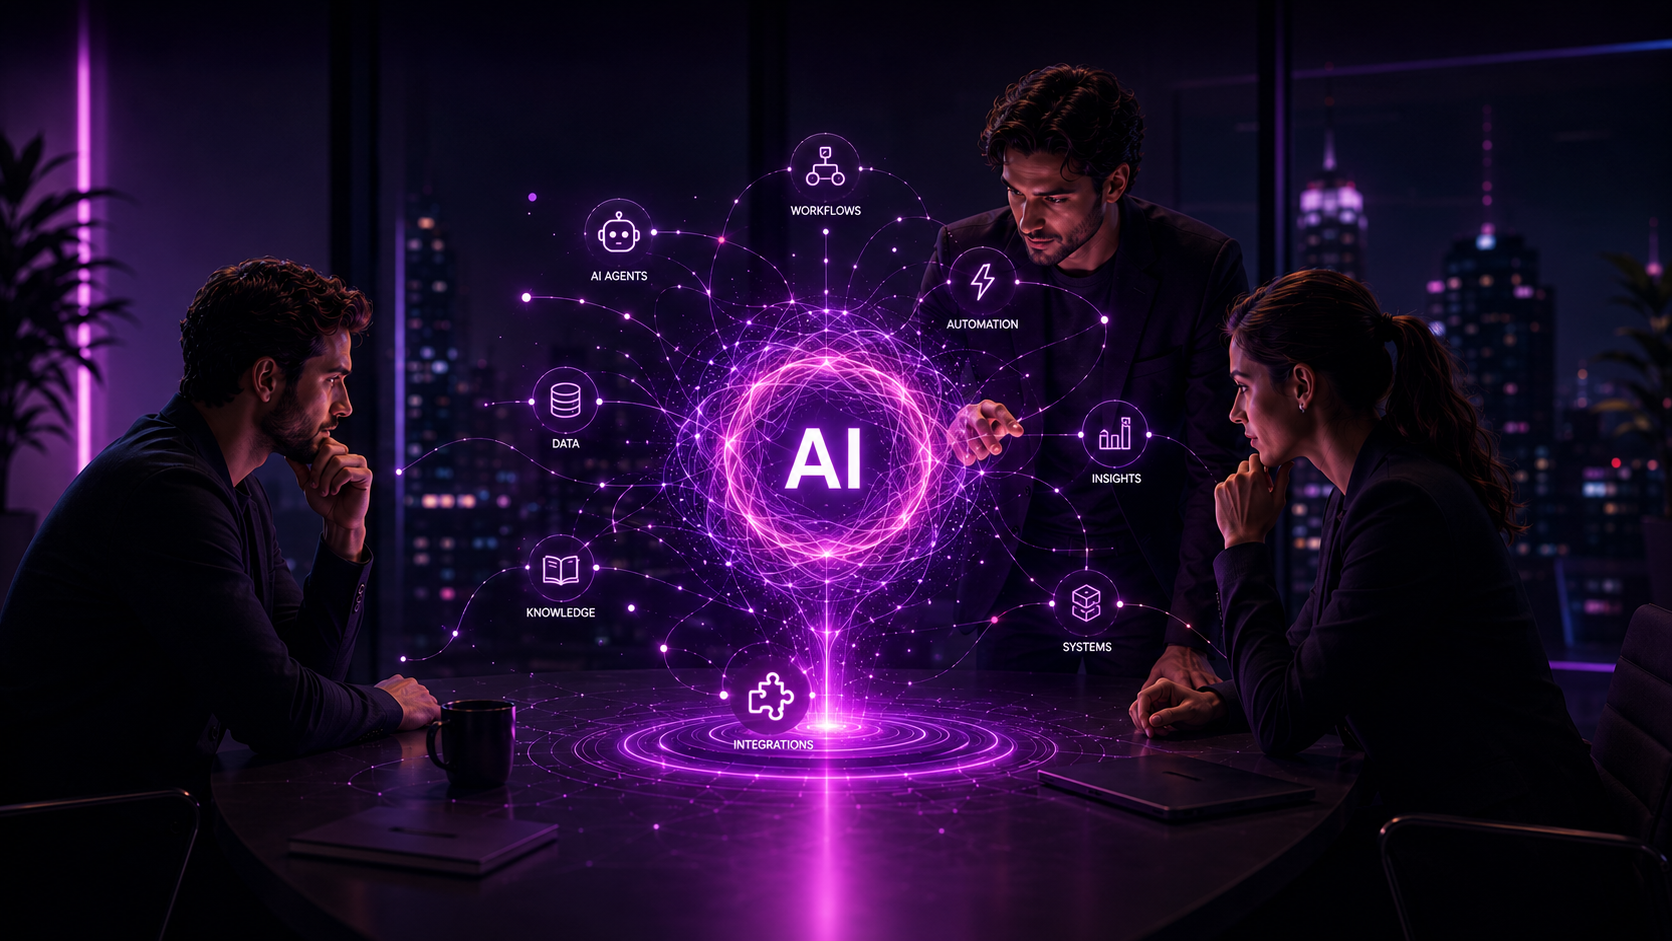
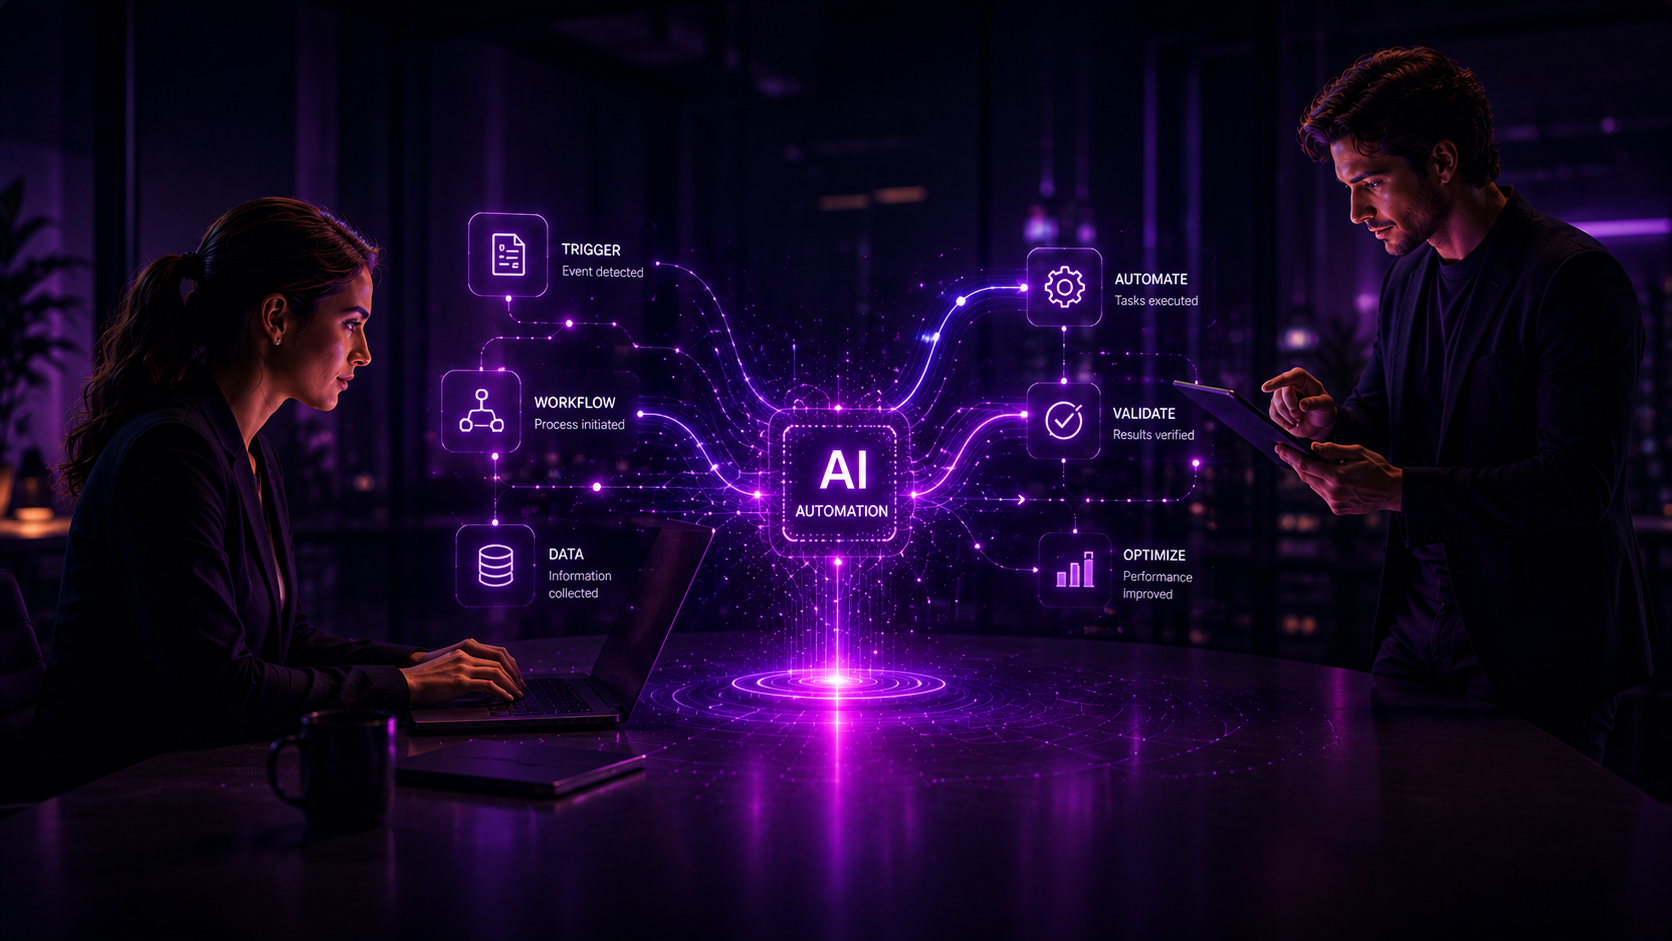
Update assistant branding and refresh hero visual

diff --git a/components/AssistantChat.tsx b/components/AssistantChat.tsx
@@ -308,10 +308,16 @@ export default function AssistantChat({
       {open && (
         <div className="fixed inset-0 z-[9999] bg-black/40 backdrop-blur-sm">
           <div className="absolute bottom-24 right-6 w-[390px] max-w-[calc(100vw-24px)] rounded-2xl bg-[#0a0614]/95 p-4 text-white shadow-2xl ring-1 ring-white/10 backdrop-blur-xl">
-            <div className="mb-4 flex items-center justify-between">
-              <div className="text-sm font-medium text-white/90">
-                Gleam Peak AI
-              </div>
+           <div className="mb-4 flex items-center justify-between">
+  <div>
+    <div className="text-[15px] font-semibold text-white">
+      Gleam Peak AI Assistant
+    </div>
+
+    <div className="text-[11px] text-white/50">
+      Intelligent business assistant
+    </div>
+  </div>
 
               <button
                 type="button"
@@ -353,6 +359,7 @@ export default function AssistantChat({
                   {error}
                 </div>
               )}
+              
 
               <div ref={messagesEndRef} />
             </div>